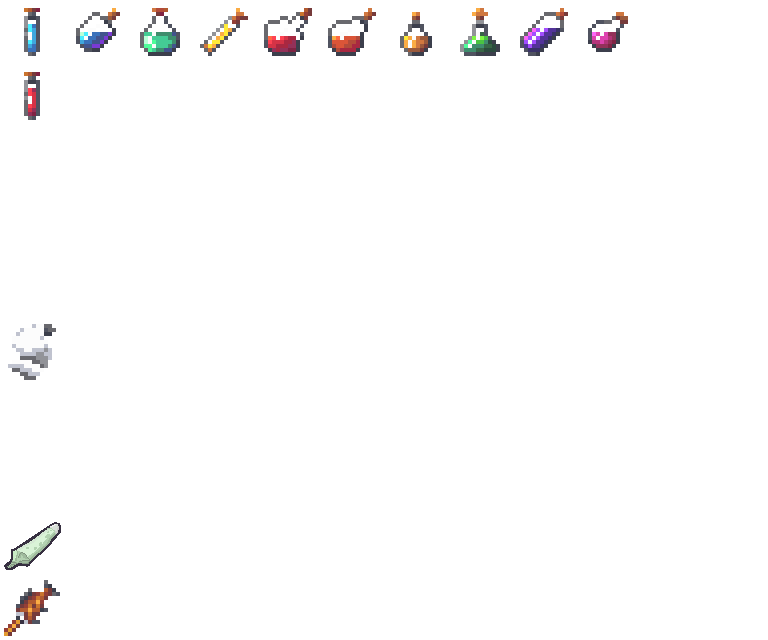
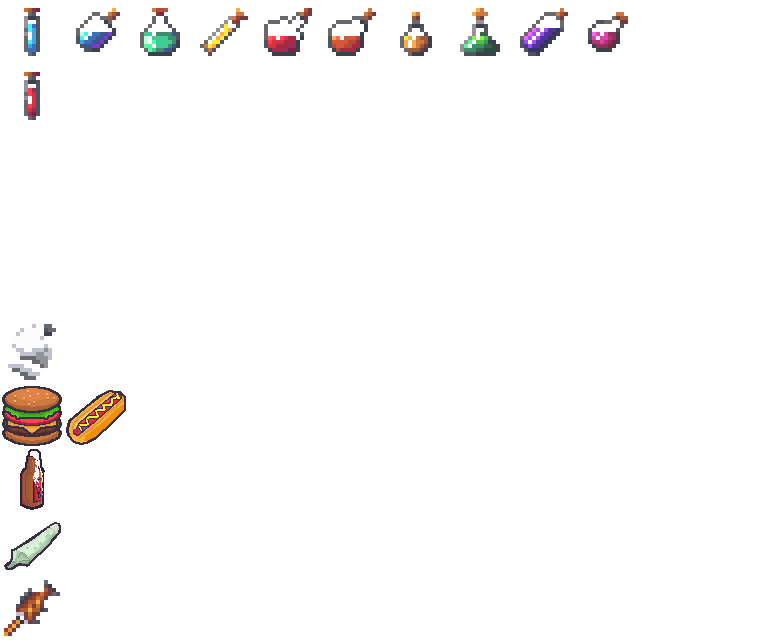
Nouvelle recette et tweak recette

Changed region(s): [[0.0, 0.5938, 0.1875, 0.8125]]

diff --git a/src/server/config/recipes/table.js b/src/server/config/recipes/table.js
@@ -24,6 +24,34 @@ const baseRecipes = {
 			}
 		]
 	}
+	,bouteille: {
+		item: {
+			name: "Liquide louche"
+			, type: "consumable"
+			, sprite: [0, 7]
+			, worth: 15
+			, noSalvage: true
+			, noAugment: true
+			, uses: 1
+			, cdMax: 85
+			, effects: [{
+				type: "augmentWeapon"
+				, rolls: {
+					duration: 500
+				}
+			}]
+	}
+	, materials: [{
+		name: "Bouteille vide"
+		, quantity: 1
+	}, {
+		name: "champignon"
+		, quantity: 3
+	}, {
+		name: "weed"
+		, quantity: 1
+	}]
+}
 };
 
 const buildRecipe = function (recipe, item, materials, effects) {
@@ -96,4 +124,38 @@ module.exports = [
 			}
 		}
 	)
+
+		, buildRecipe(
+		// recette
+		{ name: "bouteille"
+			, description: "Ca pue mais ca rend l'arme plus forte."
+		}
+		// item
+		, { name: "Liquide louche"
+			, description: "Ca pue mais ca rend l'arme plus forte."
+			, getXp: 25
+		}
+		// Materials
+		, [ {
+		name: "Bouteille vide"
+		, quantity: 1
+	}, {
+		name: "champignon"
+		, quantity: 3
+	}, {
+		name: "weed"
+		, quantity: 1
+	}
+		]
+		, {
+			rolls: {
+				duration: 500
+			}
+		}
+	)
+
+
+
+
+
 ];

diff --git a/src/server/config/maps/town/zone.js b/src/server/config/maps/town/zone.js
@@ -259,9 +259,9 @@ module.exports = {
 					, forceItems: [{
 						name: "hot-dog"
 						, type: "consumable"
-						, sprite: [0, 1]
+						, sprite: [1, 6]
 						, description: "Donne 75 HP"
-						, spritesheet: "images/questItems.png"
+						, spritesheet: "images/consumable.png"
 						, worth: 8
 						, noSalvage: true
 						, noAugment: true
@@ -279,9 +279,9 @@ module.exports = {
 					},{
 						name: "Hamburger"
 						, type: "consumable"
-						, sprite: [0, 1]
+						, sprite: [0, 6]
 						, description: "Donne 100 HP"
-						, spritesheet: "images/questItems.png"
+						, spritesheet: "images/consumables.png"
 						, worth: 12
 						, noSalvage: true
 						, noAugment: true

diff --git a/src/server/config/recipes/cooking.js b/src/server/config/recipes/cooking.js
@@ -50,6 +50,7 @@ module.exports = [
 		}
 		// item
 		,{ name: "Hamburger"
+			, sprite: [0, 6]
 			, description: "Un gros hamburger <br /><br />Donne: 100 Hp instant"
 			, getXp: 10
 		}
